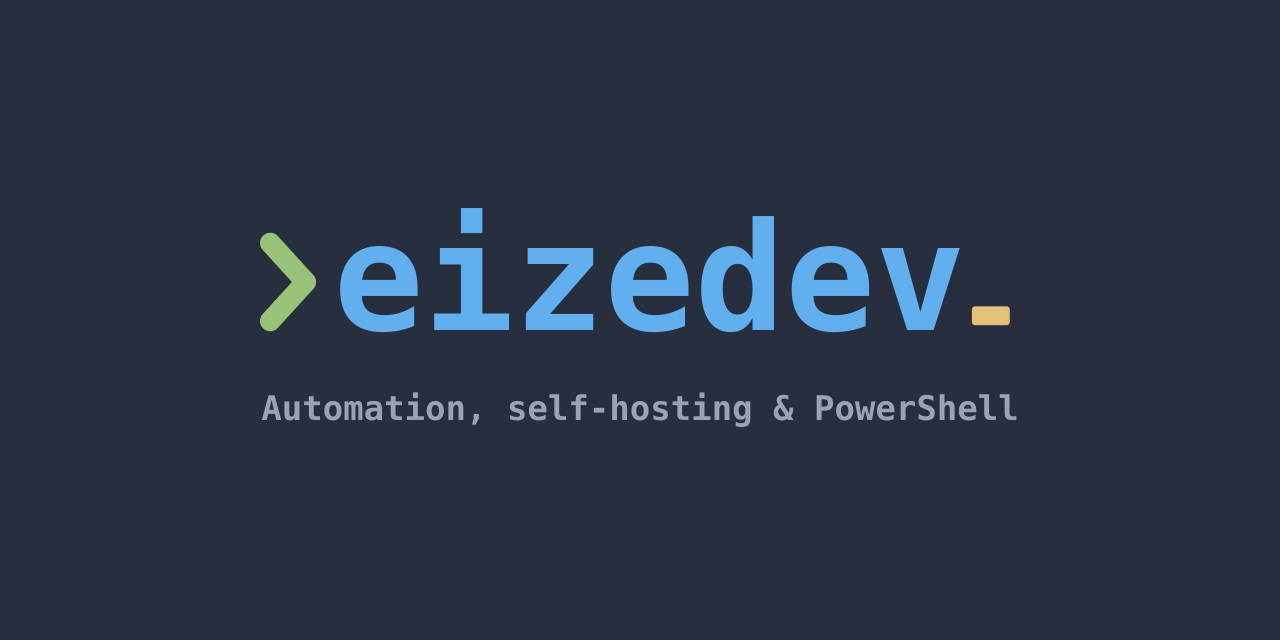
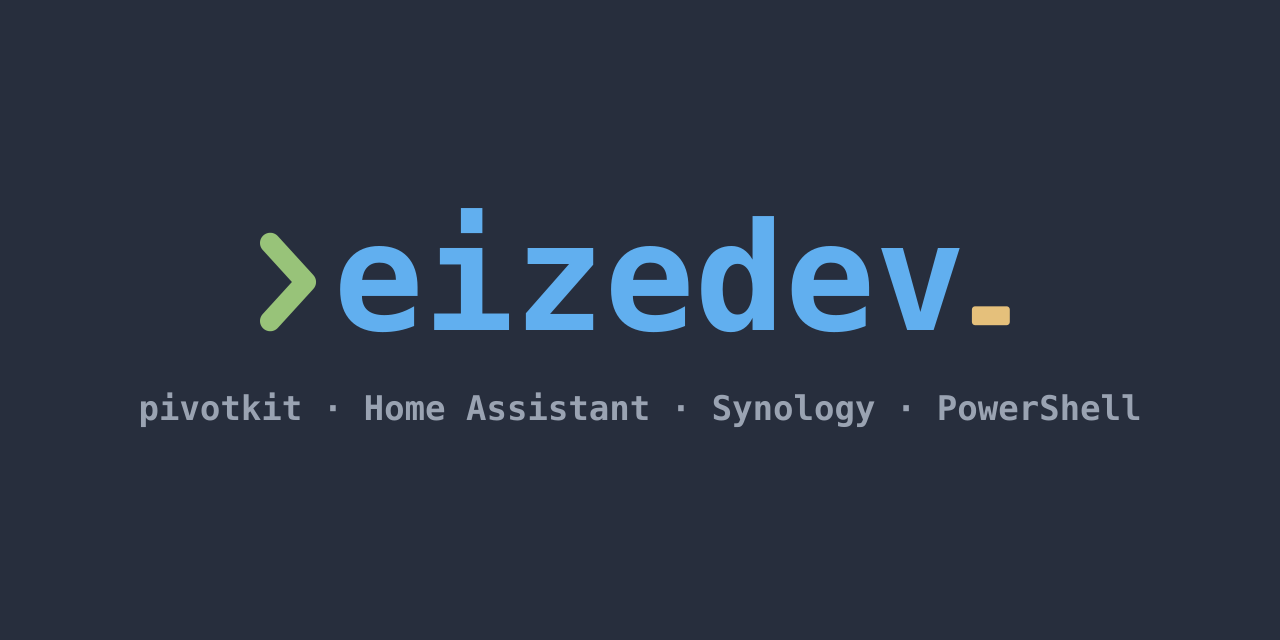
feat(eizedev): tagline of the social preview names my current projects (#19)
pivotkit, Home Assistant, Synology and PowerShell instead of the older
"Automation, self-hosting & PowerShell". eize.dev uses this preview for
link previews.

Changed region(s): [[0.0938, 0.5938, 0.9062, 0.6875]]

diff --git a/eizedev/build.py b/eizedev/build.py
@@ -26,7 +26,7 @@ from brand import DARK, LIGHT, Palette, glyph, text, text_width, write_png, writ
 
 HERE = Path(__file__).resolve().parent
 SVG, PNG, FAV = HERE / "svg", HERE / "png", HERE / "favicon"
-TAGLINE = "Automation, self-hosting & PowerShell"
+TAGLINE = "pivotkit · Home Assistant · Synology · PowerShell"
 
 
 def mark(c: Palette | None, mono: str | None = None, scale: float = 1.0) -> str:
